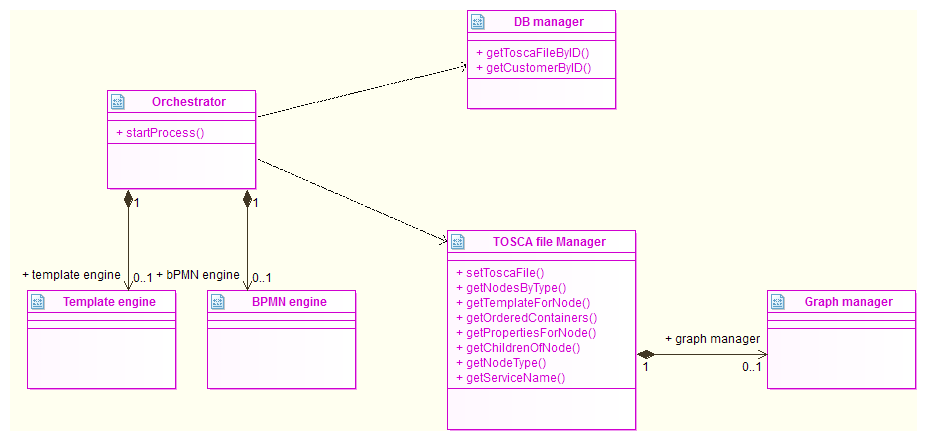
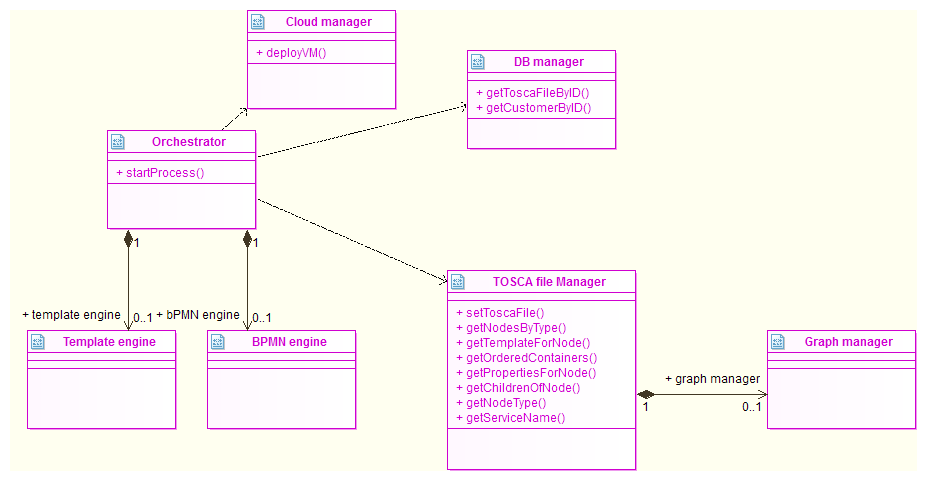
Added the Cloud Manager

diff --git a/cloudopting-tosca/README.md b/cloudopting-tosca/README.md
@@ -30,6 +30,11 @@ This is only the set of components used in the orchestrator and component like t
 This component is a headless element and does not return any graphic information to the user.
 At the moment the current implementation make use of an internal TOSCA file manager element that is not developed in the proper way: the component needs to have an array of TOSCA files caches and he has to return the cache ID to the process and all the calls to the manager need to add this ID so that each process will operate on his TOSCA file.
 This change will be done in the next iteration of the component.
+
 The TOSCA file manager also just make use of a graph manager, but does not leveradge on it for returning the correct ordered nodes, also this part will be developed in a next iteration; the graph manager is needed to allow the TOSCA manager to return the correctly dependent elements in the proper order.
 
 Even if the TOSCA file manager could be implemented as an external REST component this could be an overkill in the simple actual architecture of the project; at the moment is used as a singleton object in the process. This generate a dependency on the elements that has to be validated, design team needs to vote on the better implementation.
+
+The orchestrator also make use of the Cloud manager that has the knowledge to deploy the VM and will make use of the JClouds library.
+
+At the moment the implementation for the Docker execution is done directly in the Task implementation as a shell command execution leveradging on the available task without any other complications.
